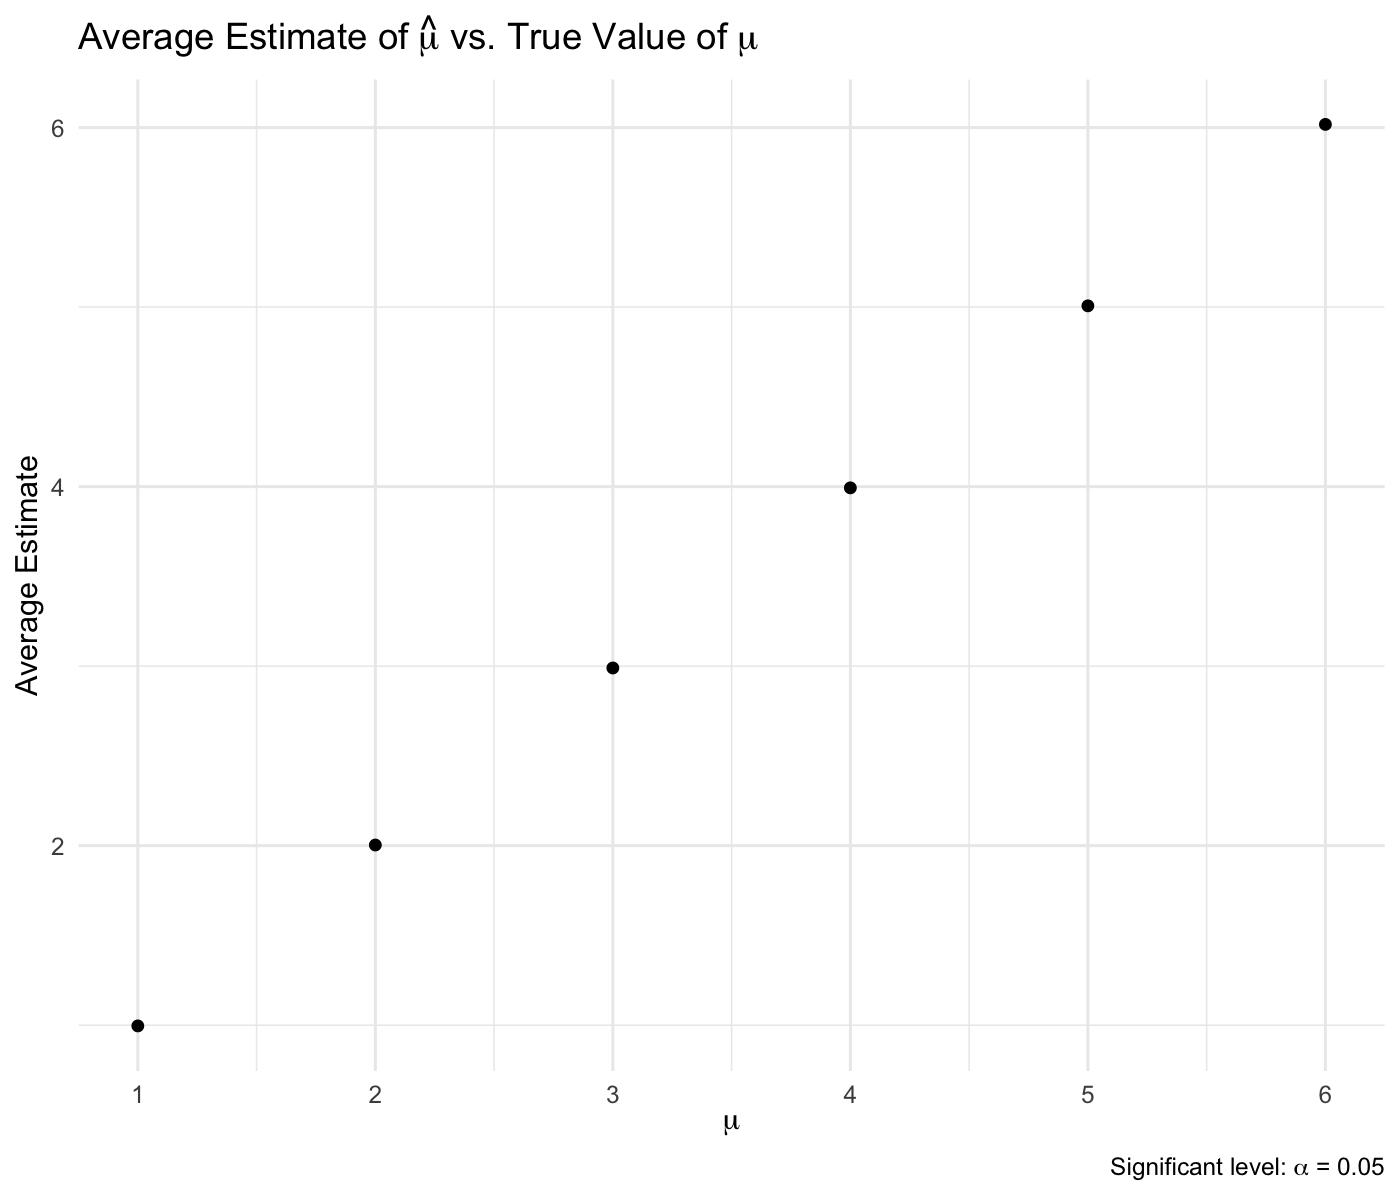
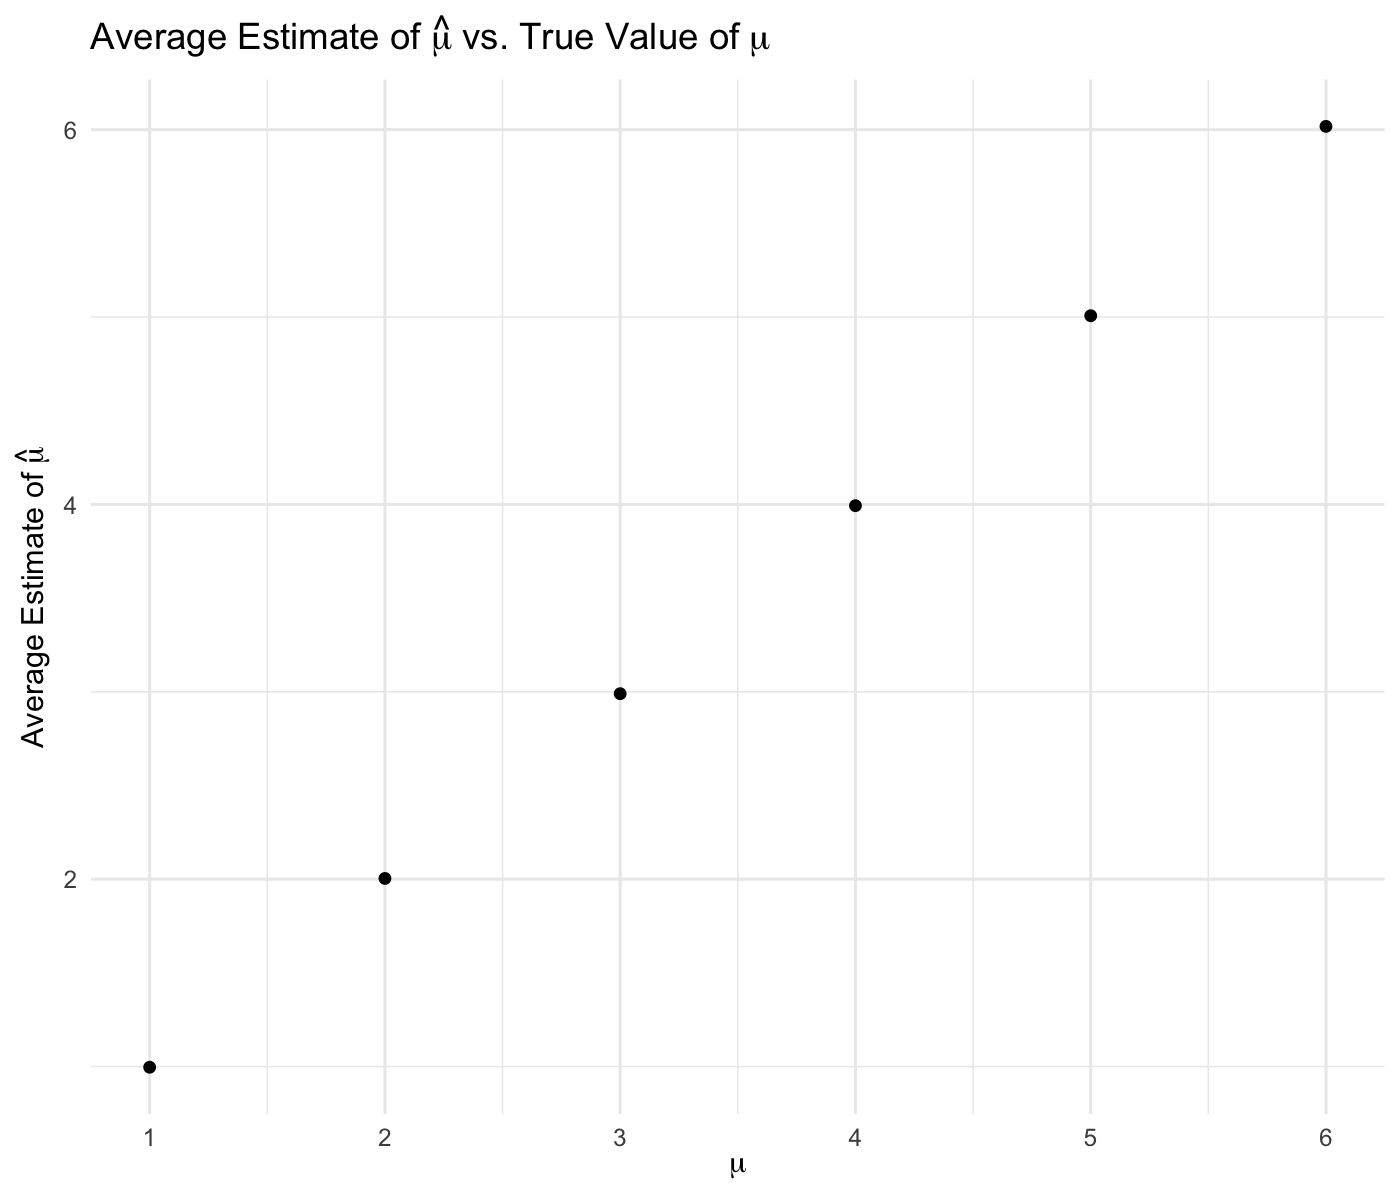
Problem 3 -- made an overlay plot showing average estimate limited to the rejected samples vs. true value

diff --git a/p8105_hw5_sg3889.md b/p8105_hw5_sg3889.md
@@ -388,16 +388,16 @@ re_sim_results_df =
   unnest(power_df)
 ```
 
--   Make a plot showing the proportion of times the null was rejected on
+-   Make a plot showing the proportion of times the null is rejected on
     the y axis and the true value of $\mu$ on the x axis.
 
 ``` r
 re_sim_results_df %>% 
   mutate(
     decision = case_when(
-      p_value < 0.05  ~ "reject",
-      p_value >= 0.05 ~ "fail to reject",
-      TRUE            ~ ""
+      p_value <= 0.05  ~ "reject",
+      p_value > 0.05   ~ "fail to reject",
+      TRUE             ~ ""
     )
   ) %>% 
   group_by(true_mean) %>% 
@@ -411,7 +411,7 @@ re_sim_results_df %>%
   labs(
     x = expression(mu),
     y = "Proportion of Times Rejecting Null\n(%)",
-    title = expression(paste("Proportion of Times the Null was Rejected vs. True Value of ", mu)),
+    title = expression(paste("Proportion of Times the Null is Rejected vs. True Value of ", mu)),
     caption = expression(paste("Significant level: ", alpha, " = 0.05"))
   ) + 
   scale_x_continuous(
@@ -422,7 +422,7 @@ re_sim_results_df %>%
 <img src="p8105_hw5_sg3889_files/figure-gfm/unnamed-chunk-18-1.png" width="90%" />
 
 As we can observe from the above scatterplot, the proportion of times
-the null was rejected increases as the true mean becomes larger,
+the null is rejected increases as the true mean becomes larger,
 indicating that the detectable effect size and power are positively
 correlated.
 
@@ -437,12 +437,10 @@ re_sim_results_df %>%
   ) %>% 
   ggplot(aes(x = true_mean, y = mean_estimate)) +
   geom_point() +
-  #geom_path(alpha = .5) +
   labs(
     x = expression(mu),
-    y = "Average Estimate",
-    title = expression(paste("Average Estimate of ", hat(mu), " vs. True Value of ", mu)),
-    caption = expression(paste("Significant level: ", alpha, " = 0.05"))
+    y = expression(paste("Average Estimate of ", hat(mu))),
+    title = expression(paste("Average Estimate of ", hat(mu), " vs. True Value of ", mu))
   ) + 
   scale_x_continuous(
     breaks = 1:6
@@ -450,3 +448,67 @@ re_sim_results_df %>%
 ```
 
 <img src="p8105_hw5_sg3889_files/figure-gfm/unnamed-chunk-19-1.png" width="90%" />
+
+-   Make a second plot showing the average of $\hat{\mu}$ only in
+    samples for which the null is rejected on the y axis and the true
+    value of $\mu$ on the x axis. Overlay it on the previous plot.
+
+``` r
+re_sim_results_df %>% 
+  mutate(
+    decision = case_when(
+      p_value <= 0.05  ~ "reject",
+      p_value > 0.05   ~ "fail to reject",
+      TRUE             ~ ""
+    ),
+    estimate_hat_rej = ifelse(decision == "reject", estimate_hat, NA_real_)
+  ) %>% 
+  group_by(true_mean) %>% 
+  summarise(
+    mean_estimate = mean(estimate_hat),
+    mean_reject = mean(estimate_hat_rej, na.rm = TRUE)
+  ) %>% 
+  pivot_longer(
+    mean_estimate:mean_reject,
+    names_to = "group",
+    names_prefix = "mean_",
+    values_to = "estimate"
+  ) %>% 
+  mutate(
+    group = str_replace(group, "estimate", "all")
+  ) %>% 
+  ggplot(aes(x = true_mean, y = estimate, color = group)) +
+  geom_point() +
+  geom_path(alpha = .5) +
+  labs(
+    x = expression(mu),
+    y = expression(paste("Average Estimate of ", hat(mu))),
+    title = expression(paste("Average Estimate of ", hat(mu), " vs. True Value of ", mu)),
+    caption = expression(paste("Significant level: ", alpha, " = 0.05"))
+  ) + 
+  scale_colour_discrete(
+    name = "",
+    labels = c("All Samples", "Rejected Samples")
+  ) +
+  scale_x_continuous(
+    breaks = 1:6
+  )
+```
+
+<img src="p8105_hw5_sg3889_files/figure-gfm/unnamed-chunk-20-1.png" width="90%" />
+
+When $\mu$ = {1, 2}, the sample average of $\hat{\mu}$ across tests for
+which the null is rejected is not approximately equal to the true value
+of $\mu$. However, the difference becomes smaller when the true value of
+$\mu$ increases, i.e., the sample average is becoming closer and closer
+to the true value, and is approximately the same as the true value when
+$\mu$ = {4, 5, 6}.
+
+It can be explained by the fact that when the effect size is relatively
+small, the power is low, and fewer samples are rejected, leading to a
+larger average estimate compared to the true value. As the effect size
+increases, the power increases as well, and there are more rejected
+samples where the $\hat{\mu}$ of these samples is significantly
+different than 0 and closer to the true value of $\mu$. In this way,
+it’s reasonable that the average of these rejected samples will be
+approximately equal to the true value of $\mu$.
